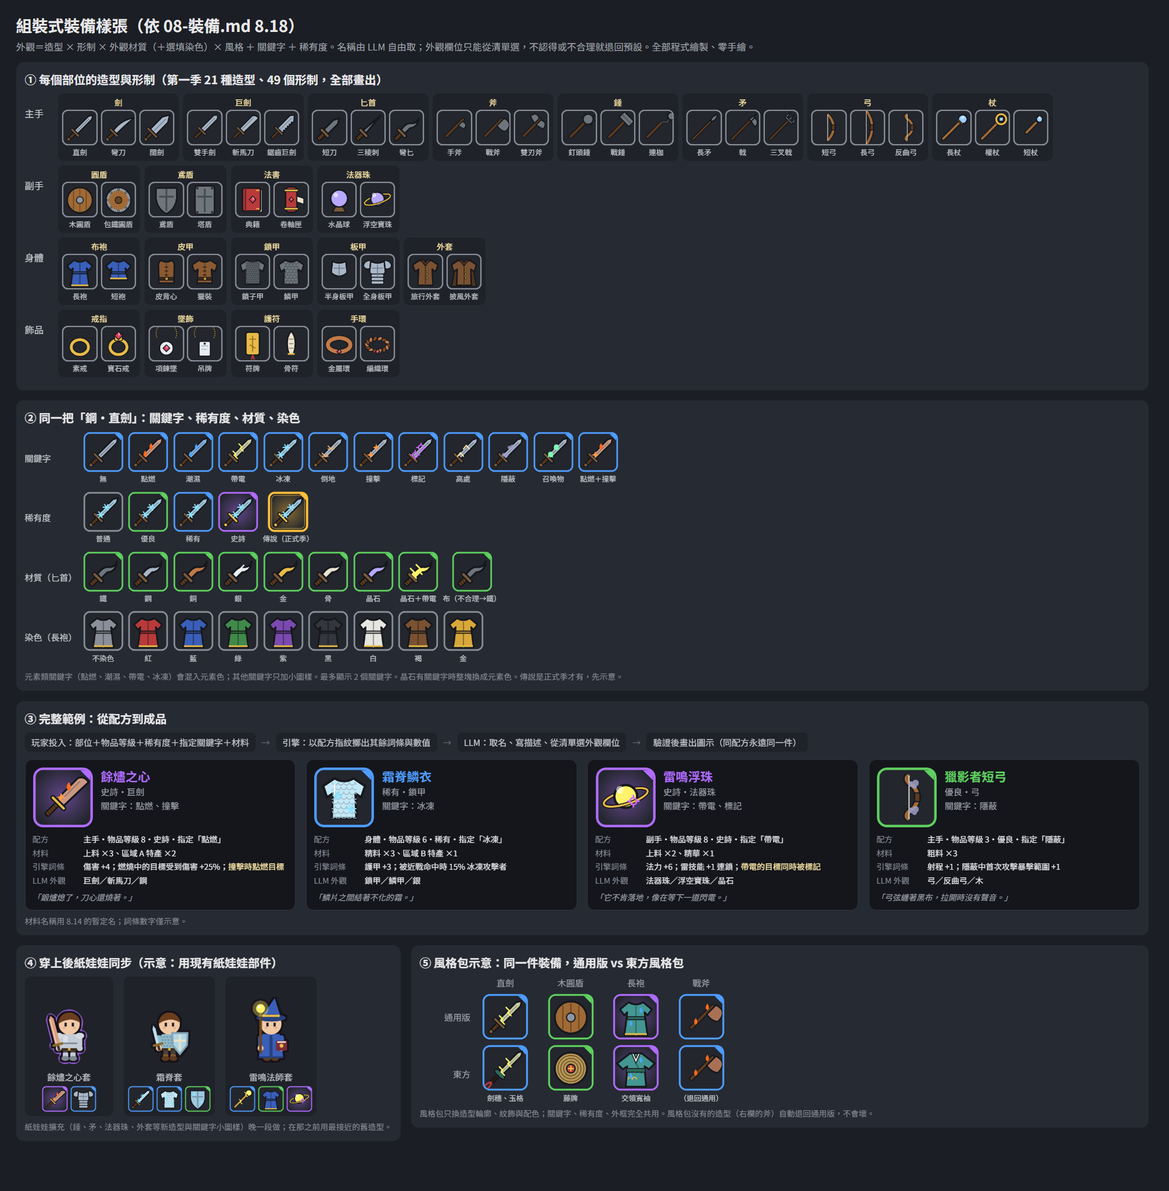
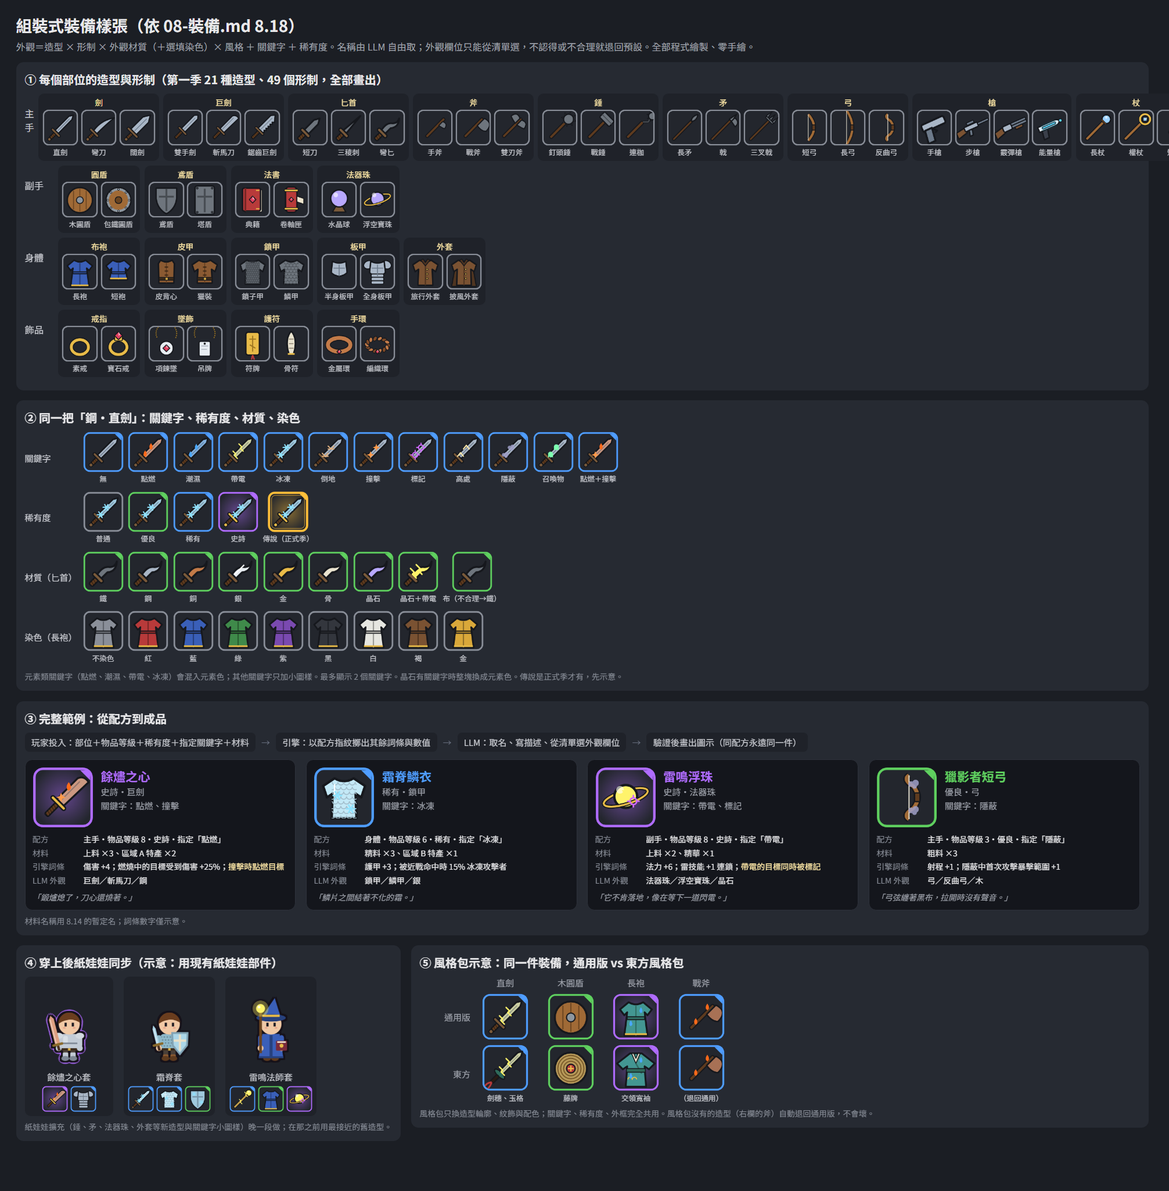
docs(art): add style pack comparison and guns to equipment samples

Changed region(s): [[0.0308, 0.0624, 1.0, 0.1561]]

diff --git a/docs/art/sample/gearArt.js b/docs/art/sample/gearArt.js
@@ -47,6 +47,7 @@ window.GearArt = (() => {
     hammer: { slot: "main", zh: "錘", forms: { mace: "釘頭錘", warhammer: "戰錘", flail: "連枷" }, mats: [...METAL], def: "iron" },
     spear: { slot: "main", zh: "矛", forms: { spear: "長矛", halberd: "戟", trident: "三叉戟" }, mats: [...METAL, "wood"], def: "iron" },
     bow: { slot: "main", zh: "弓", forms: { short: "短弓", long: "長弓", recurve: "反曲弓" }, mats: ["wood", ...METAL], def: "wood" },
+    gun: { slot: "main", zh: "槍", forms: { pistol: "手槍", rifle: "步槍", shotgun: "霰彈槍", energy: "能量槍" }, mats: [...METAL, "wood"], def: "steel" },
     staff: { slot: "main", zh: "杖", forms: { long: "長杖", scepter: "權杖", wand: "短杖" }, mats: ["wood", ...METAL, "bone", "crystal"], def: "wood" },
     round_shield: { slot: "off", zh: "圓盾", forms: { wood: "木圓盾", banded: "包鐵圓盾" }, mats: ["wood", ...METAL], def: "wood" },
     kite_shield: { slot: "off", zh: "鳶盾", forms: { kite: "鳶盾", tower: "塔盾" }, mats: [...METAL], def: "iron" },
@@ -72,7 +73,7 @@ window.GearArt = (() => {
     const dye = (material === "cloth" || material === "leather") && DYE[it.dye] ? it.dye : null;
     const keywords = (it.keywords ?? []).filter((k) => KEYWORD[k]).slice(0, 2);
     const rarity = RARITY[it.rarity] ? it.rarity : "common";
-    return { kind, form, material, dye, keywords, rarity, style: it.style === "eastern" ? "eastern" : "common" };
+    return { kind, form, material, dye, keywords, rarity, style: STYLES[it.style] ? it.style : "common" };
   }
 
   function mix(a, b, t) {
@@ -382,6 +383,171 @@ window.GearArt = (() => {
     },
   };
 
+  // ---- 槍（遠程主手；槍口朝右上）----
+  D.gun = (ctx, r, P) => {
+    ctx.save(); ctx.translate(32, 34); ctx.rotate(-0.42);
+    const wood = "#7a5232";
+    if (r.form === "pistol") {
+      ctx.scale(1.45, 1.45);
+      shape(ctx, P.a, () => ctx.roundRect(-12, -9, 26, 8, 2));
+      shape(ctx, P.d, () => { ctx.moveTo(-10, -2); ctx.lineTo(-2, -2); ctx.lineTo(-4, 12); ctx.lineTo(-12, 12); ctx.closePath(); });
+      line(ctx, INK, 1.8, [[-2, -1], [2, 3], [-1, 4]]);
+      shine(ctx, P, [[-9, -7], [10, -7]]);
+      var muzzle = [20, -7];
+    } else if (r.form === "rifle") {
+      shape(ctx, wood, () => { ctx.moveTo(-26, -4); ctx.lineTo(-12, -6); ctx.lineTo(-10, 2); ctx.lineTo(-26, 6); ctx.closePath(); });
+      shape(ctx, P.a, () => ctx.roundRect(-12, -7, 22, 7, 1.5));
+      shape(ctx, P.d, () => ctx.roundRect(10, -5.5, 18, 3.5, 1), 1.5);
+      shape(ctx, P.d, () => ctx.roundRect(-6, -12, 12, 4, 1.5), 1.5); // 瞄準鏡
+      shape(ctx, P.d, () => { ctx.moveTo(-6, 0); ctx.lineTo(-1, 0); ctx.lineTo(-3, 9); ctx.lineTo(-8, 9); ctx.closePath(); });
+      muzzle = [28, -4];
+    } else if (r.form === "shotgun") {
+      shape(ctx, wood, () => { ctx.moveTo(-26, -4); ctx.lineTo(-12, -7); ctx.lineTo(-10, 2); ctx.lineTo(-26, 7); ctx.closePath(); });
+      shape(ctx, P.a, () => ctx.roundRect(-12, -8, 14, 9, 2));
+      shape(ctx, P.d, () => ctx.roundRect(2, -8, 24, 4, 1), 1.5);
+      shape(ctx, P.d, () => ctx.roundRect(2, -4, 24, 4, 1), 1.5);
+      shape(ctx, wood, () => ctx.roundRect(6, 0, 12, 4, 1.5), 1.5); // 泵動護木
+      muzzle = [26, -4];
+    } else {
+      const glow = r.keywords.length ? P.accent : "#5ad8ff";
+      shape(ctx, "#e8edf2", () => { ctx.moveTo(-16, -9); ctx.lineTo(14, -9); ctx.quadraticCurveTo(22, -6, 14, -1); ctx.lineTo(-16, -1); ctx.closePath(); });
+      shape(ctx, "#3a3f4a", () => { ctx.moveTo(-12, -1); ctx.lineTo(-3, -1); ctx.lineTo(-6, 12); ctx.lineTo(-14, 12); ctx.closePath(); });
+      ctx.save(); ctx.shadowColor = glow; ctx.shadowBlur = 6; shape(ctx, glow, () => ctx.roundRect(-10, -6.5, 22, 3, 1.5), 1); ctx.restore();
+      shape(ctx, glow, () => ctx.arc(20, -5, 2.5, 0, TAU), 1.2);
+      muzzle = [20, -5];
+    }
+    ctx.restore();
+    const a = -0.42, mx = 32 + Math.cos(a) * muzzle[0] - Math.sin(a) * muzzle[1], my = 34 + Math.sin(a) * muzzle[0] + Math.cos(a) * muzzle[1];
+    return [[mx + 2, my - 4], [24, 44]];
+  };
+
+  // ---- 風格包：魔導科技（黃銅＋晶能＋符文）----
+  const BRASS = "#c8963c", BRASS_D = "#7a5a22";
+  const MAGITECH = {
+    sword: (ctx, r, P) => {
+      const glow = r.keywords.length ? P.accent : "#8fe3ff";
+      diag(ctx, () => {
+        shape(ctx, P.a, () => { ctx.moveTo(-4, 8); ctx.lineTo(-4, -22); ctx.lineTo(0, -28); ctx.lineTo(4, -22); ctx.lineTo(4, 8); ctx.closePath(); });
+        ctx.save(); ctx.shadowColor = glow; ctx.shadowBlur = 5; line(ctx, glow, 1.6, [[0, 6], [0, -22]]); ctx.restore();
+        for (const y of [-4, -12]) line(ctx, glow, 1.2, [[-3, y], [-1, y - 2], [1, y], [3, y - 2]]);
+        shape(ctx, BRASS, () => ctx.arc(0, 10, 5.5, 0, TAU), 1.5); // 齒輪護手
+        for (let i = 0; i < 8; i++) { const t = (i / 8) * TAU; shape(ctx, BRASS, () => ctx.rect(Math.cos(t) * 6 - 1.2, 10 + Math.sin(t) * 6 - 1.2, 2.4, 2.4), 0.8); }
+        shape(ctx, glow, () => ctx.arc(0, 10, 2, 0, TAU), 1);
+        shape(ctx, BRASS_D, () => ctx.roundRect(-2.2, 15, 4.4, 9, 1.5), 1.5);
+      });
+      return [[36, 26], [28, 36]];
+    },
+    round_shield: (ctx, r, P) => {
+      const glow = r.keywords.length ? P.accent : "#8fe3ff";
+      shape(ctx, BRASS, () => ctx.arc(32, 33, 22, 0, TAU), 2.5);
+      for (let i = 0; i < 12; i++) { const t = (i / 12) * TAU; shape(ctx, BRASS_D, () => ctx.arc(32 + Math.cos(t) * 18, 33 + Math.sin(t) * 18, 1.4, 0, TAU), 0.6); }
+      ctx.strokeStyle = BRASS_D; ctx.lineWidth = 2; ctx.beginPath(); ctx.arc(32, 33, 13, 0, TAU); ctx.stroke();
+      ctx.save(); ctx.shadowColor = glow; ctx.shadowBlur = 8; gem(ctx, 32, 33, 8, glow); ctx.restore();
+      return [[22, 26], [42, 42]];
+    },
+    robe: (ctx, r, P) => {
+      const glow = r.keywords.length ? P.accent : "#8fe3ff";
+      D.robe(ctx, r, P);
+      shape(ctx, BRASS, () => ctx.roundRect(19, 31, 26, 6, 1.5), 1.2);
+      ctx.save(); ctx.shadowColor = glow; ctx.shadowBlur = 5; shape(ctx, glow, () => ctx.arc(32, 34, 2.5, 0, TAU), 1); line(ctx, glow, 1.4, [[24, 40], [24, 54]]); line(ctx, glow, 1.4, [[40, 40], [40, 54]]); ctx.restore();
+      shape(ctx, BRASS, () => ctx.ellipse(16, 22, 5, 4, -0.4, 0, TAU), 1.2); shape(ctx, BRASS, () => ctx.ellipse(48, 22, 5, 4, 0.4, 0, TAU), 1.2);
+      return [[25, 46], [39, 22]];
+    },
+    axe: (ctx, r, P) => {
+      const glow = r.keywords.length ? P.accent : "#8fe3ff";
+      diag(ctx, () => {
+        shape(ctx, BRASS_D, () => ctx.roundRect(-2.5, -24, 5, 46, 2), 1.5);
+        shape(ctx, P.a, () => { ctx.moveTo(2, -26); ctx.quadraticCurveTo(20, -32, 20, -12); ctx.quadraticCurveTo(14, -6, 2, -8); ctx.closePath(); });
+        ctx.save(); ctx.shadowColor = glow; ctx.shadowBlur = 5; ctx.beginPath(); ctx.moveTo(5, -24); ctx.quadraticCurveTo(18, -27, 18, -12); ctx.strokeStyle = glow; ctx.lineWidth = 1.6; ctx.stroke(); ctx.restore();
+        shape(ctx, BRASS, () => ctx.arc(0, -17, 4, 0, TAU), 1.2); shape(ctx, glow, () => ctx.arc(0, -17, 1.6, 0, TAU), 0.6);
+      });
+      return [[40, 20], [24, 40]];
+    },
+  };
+  // ---- 風格包：科技（深色金屬＋電路＋發光）----
+  const DARK = "#2a2f38", DARK2 = "#454c58";
+  const SCIFI = {
+    sword: (ctx, r, P) => {
+      const glow = r.keywords.length ? P.accent : "#5ad8ff";
+      diag(ctx, () => {
+        ctx.save(); ctx.shadowColor = glow; ctx.shadowBlur = 10;
+        shape(ctx, glow, () => { ctx.moveTo(-3, 6); ctx.lineTo(-3, -24); ctx.quadraticCurveTo(0, -30, 3, -24); ctx.lineTo(3, 6); ctx.closePath(); }, 1);
+        ctx.restore();
+        shape(ctx, "rgba(255,255,255,0.85)", () => ctx.roundRect(-1, -22, 2, 27, 1), 0);
+        shape(ctx, DARK2, () => ctx.roundRect(-5, 6, 10, 4, 1), 1.5);
+        shape(ctx, DARK, () => ctx.roundRect(-3, 10, 6, 14, 1.5), 1.5);
+        for (const y of [13, 17, 21]) line(ctx, glow, 1, [[-2, y], [2, y]]);
+      });
+      return [[36, 26], [28, 36]];
+    },
+    round_shield: (ctx, r, P) => {
+      const glow = r.keywords.length ? P.accent : "#5ad8ff";
+      ctx.save(); ctx.globalAlpha = 0.35; shape(ctx, glow, () => { for (let i = 0; i < 6; i++) { const t = (i / 6) * TAU - Math.PI / 2; ctx.lineTo(32 + Math.cos(t) * 23, 33 + Math.sin(t) * 23); } ctx.closePath(); }, 0); ctx.restore();
+      ctx.strokeStyle = glow; ctx.lineWidth = 1; ctx.save(); ctx.shadowColor = glow; ctx.shadowBlur = 6;
+      for (const [hx, hy] of [[32, 33], [32, 21], [32, 45], [21.6, 27], [42.4, 27], [21.6, 39], [42.4, 39]]) { ctx.beginPath(); for (let i = 0; i < 6; i++) { const t = (i / 6) * TAU; ctx.lineTo(hx + Math.cos(t) * 6.5, hy + Math.sin(t) * 6.5); } ctx.closePath(); ctx.stroke(); }
+      ctx.restore();
+      shape(ctx, DARK, () => ctx.roundRect(26, 50, 12, 8, 2), 1.5); shape(ctx, glow, () => ctx.arc(32, 54, 1.8, 0, TAU), 0.6);
+      return [[22, 26], [42, 42]];
+    },
+    robe: (ctx, r, P) => {
+      const glow = r.keywords.length ? P.accent : "#5ad8ff";
+      shape(ctx, DARK2, () => { ctx.moveTo(22, 12); ctx.quadraticCurveTo(32, 16, 42, 12); ctx.lineTo(54, 22); ctx.lineTo(50, 34); ctx.lineTo(45, 30); ctx.lineTo(45, 56); ctx.lineTo(19, 56); ctx.lineTo(19, 30); ctx.lineTo(14, 34); ctx.lineTo(10, 22); ctx.closePath(); }, 2.5);
+      shape(ctx, DARK, () => ctx.roundRect(23, 18, 18, 18, 3), 1.5);
+      ctx.save(); ctx.shadowColor = glow; ctx.shadowBlur = 6;
+      line(ctx, glow, 1.6, [[32, 22], [32, 30], [36, 34], [36, 52]]); line(ctx, glow, 1.6, [[26, 40], [26, 52]]); shape(ctx, glow, () => ctx.arc(32, 22, 2.2, 0, TAU), 0.8);
+      ctx.restore();
+      return [[25, 46], [40, 22]];
+    },
+    axe: (ctx, r, P) => {
+      const glow = r.keywords.length ? P.accent : "#5ad8ff";
+      diag(ctx, () => {
+        shape(ctx, DARK, () => ctx.roundRect(-2.5, -24, 5, 46, 2), 1.5);
+        for (const y of [4, 10, 16]) line(ctx, glow, 1, [[-2, y], [2, y]]);
+        ctx.save(); ctx.shadowColor = glow; ctx.shadowBlur = 10; shape(ctx, glow, () => { ctx.moveTo(3, -26); ctx.quadraticCurveTo(20, -30, 19, -12); ctx.quadraticCurveTo(13, -8, 3, -9); ctx.closePath(); }, 1); ctx.restore();
+        shape(ctx, DARK2, () => ctx.roundRect(-4, -27, 9, 20, 2), 1.5);
+      });
+      return [[40, 20], [24, 40]];
+    },
+  };
+  // ---- 風格包：現代（工業製品、橡膠、塗裝）----
+  const MODERN = {
+    sword: (ctx, r, P) => { // 開山刀
+      diag(ctx, () => {
+        shape(ctx, P.a, () => { ctx.moveTo(-3, 8); ctx.lineTo(-3, -18); ctx.quadraticCurveTo(-3, -28, 5, -27); ctx.lineTo(5, 8); ctx.closePath(); });
+        line(ctx, "rgba(255,255,255,0.7)", 1.2, [[-1.5, 6], [-1.5, -18]]);
+        shape(ctx, "#2a2d33", () => ctx.roundRect(-3.5, 8, 9, 15, 3), 1.5);
+        for (const y of [11, 15, 19]) shape(ctx, "#5a5f68", () => ctx.arc(1, y, 1, 0, TAU), 0);
+      });
+      return [[36, 26], [28, 36]];
+    },
+    round_shield: (ctx, r, P) => { // 鎮暴盾
+      ctx.save(); ctx.globalAlpha = 0.45; shape(ctx, "#b8d4e8", () => ctx.roundRect(16, 8, 32, 50, 5), 0); ctx.restore();
+      ctx.beginPath(); ctx.roundRect(16, 8, 32, 50, 5); ctx.lineWidth = 2.5; ctx.strokeStyle = INK; ctx.stroke(); ctx.lineWidth = 2; ctx.strokeStyle = "#2a2d33"; ctx.stroke();
+      line(ctx, "rgba(255,255,255,0.8)", 2, [[21, 14], [21, 30]]);
+      shape(ctx, "#2a2d33", () => ctx.roundRect(19, 40, 26, 6, 1), 1.2);
+      return [[24, 24], [40, 50]];
+    },
+    robe: (ctx, r, P) => { // 連帽外套
+      shape(ctx, P.a, () => { ctx.moveTo(20, 14); ctx.quadraticCurveTo(32, 4, 44, 14); ctx.lineTo(54, 22); ctx.lineTo(51, 38); ctx.lineTo(45, 36); ctx.lineTo(45, 54); ctx.lineTo(19, 54); ctx.lineTo(19, 36); ctx.lineTo(13, 38); ctx.lineTo(10, 22); ctx.closePath(); }, 2.5);
+      shape(ctx, P.d, () => { ctx.moveTo(24, 14); ctx.quadraticCurveTo(32, 8, 40, 14); ctx.quadraticCurveTo(32, 20, 24, 14); }, 1.5); // 帽口
+      line(ctx, "#d0d4da", 1.6, [[32, 18], [32, 54]]);
+      shape(ctx, P.d, () => ctx.roundRect(22, 40, 20, 8, 2), 1.2); // 口袋
+      line(ctx, "#e6e6e0", 1.2, [[29, 18], [28, 26]]); line(ctx, "#e6e6e0", 1.2, [[35, 18], [36, 26]]);
+      return [[25, 30], [39, 30]];
+    },
+    axe: (ctx, r, P) => { // 消防斧
+      diag(ctx, () => {
+        shape(ctx, "#c03030", () => ctx.roundRect(-2.5, -24, 5, 46, 2), 1.5);
+        shape(ctx, "#2a2d33", () => ctx.roundRect(-3, 12, 6, 10, 2), 1.5);
+        shape(ctx, "#c03030", () => { ctx.moveTo(2, -24); ctx.lineTo(16, -26); ctx.lineTo(17, -12); ctx.lineTo(2, -12); ctx.closePath(); });
+        shape(ctx, "#c3ccd6", () => { ctx.moveTo(13, -26); ctx.lineTo(17, -26.5); ctx.lineTo(18, -11.5); ctx.lineTo(14, -12); ctx.closePath(); }, 1);
+        shape(ctx, "#454c58", () => { ctx.moveTo(-2, -23); ctx.lineTo(-11, -16); ctx.lineTo(-2, -15); ctx.closePath(); }, 1.5); // 尖鎬
+      });
+      return [[40, 20], [24, 40]];
+    },
+  };
+  const STYLES = { common: {}, eastern: EASTERN, magitech: MAGITECH, scifi: SCIFI, modern: MODERN };
+
   // ---- 外框（稀有度）----
   function frame(ctx, rarity) {
     const [c] = RARITY[rarity];
@@ -396,9 +562,9 @@ window.GearArt = (() => {
     const r = resolve(item);
     const P = palette(r);
     frame(ctx, r.rarity);
-    const fn = (r.style === "eastern" && EASTERN[r.kind]) || D[r.kind];
+    const fn = STYLES[r.style][r.kind] || D[r.kind];
     // 細長的造型放大一點，讓圖示填滿外框
-    const k = { sword: 1.15, dagger: 1.5, axe: 1.0, hammer: 1.1, spear: 1.05, bow: 1.15, staff: 1.1 }[r.kind] ?? 1;
+    const k = { sword: 1.15, dagger: 1.5, axe: 1.0, hammer: 1.1, spear: 1.05, bow: 1.15, staff: 1.1, gun: 1.15 }[r.kind] ?? 1;
     ctx.save(); ctx.beginPath(); ctx.roundRect(3, 3, 58, 58, 8); ctx.clip(); ctx.translate(32, 33); ctx.scale(k, k); ctx.translate(-32, -33);
     const spots = fn(ctx, r, P);
     r.keywords.forEach((kw, i) => motif(ctx, kw, ...spots[i % spots.length]));

diff --git a/docs/art/sample/gear3.html b/docs/art/sample/gear3.html
@@ -1,0 +1,104 @@
+<!doctype html>
+<html lang="zh-Hant">
+<head>
+<meta charset="utf-8">
+<title>風格包與槍</title>
+<style>
+  body { margin: 0; padding: 18px 22px; background: #1b1e24; color: #e8e8ea; font-family: "Noto Sans TC", "Microsoft JhengHei", sans-serif; width: 1500px; }
+  h1 { font-size: 22px; margin: 0 0 4px; }
+  h2 { font-size: 16px; margin: 0 0 8px; }
+  .sub { color: #a0a4ad; font-size: 13px; margin-bottom: 12px; }
+  .note { color: #8a8f99; font-size: 11px; margin-top: 6px; line-height: 1.5; }
+  .box { background: #262a32; border-radius: 10px; padding: 12px; margin-bottom: 14px; }
+  .row { display: flex; gap: 14px; align-items: flex-start; }
+  .grid { display: grid; gap: 6px 8px; align-items: center; }
+  .h { font-size: 12px; color: #a0a4ad; text-align: center; }
+  .rh { font-size: 13px; color: #e8e8ea; text-align: right; line-height: 1.3; }
+  .rh small { display: block; color: #8a8f99; font-size: 10px; }
+  .ic { text-align: center; font-size: 10px; color: #c8cad0; }
+  .ic canvas { display: block; margin: 0 auto 1px; }
+  .strip { display: flex; gap: 6px; align-items: flex-end; margin: 4px 0 10px; }
+  .strip .lab { width: 64px; font-size: 12px; color: #c8cad0; align-self: center; }
+  .doll { text-align: center; font-size: 12px; color: #c8cad0; background: #1f2229; border-radius: 8px; padding: 6px; }
+  .doll .gs { display: flex; gap: 3px; justify-content: center; margin-top: 4px; }
+</style>
+</head>
+<body>
+<h1>風格包比較與槍（組裝式裝備樣張・續）</h1>
+<div class="sub">同樣的資料欄位（造型、形制、材質、關鍵字、稀有度），只換 <b>style</b>。關鍵字、稀有度、外框所有風格共用；風格包沒有的造型自動退回通用版。</div>
+
+<div class="box"><h2>① 同四件裝備 × 五種風格</h2><div class="grid" id="styles" style="grid-template-columns: 110px repeat(4, 84px) 24px repeat(4, 84px);"></div>
+  <div class="note">左半：無關鍵字的普通款；右半：同一件加上關鍵字與較高稀有度（魔導與科技的發光線會跟著換成關鍵字的顏色）。<br>魔導科技＝黃銅齒輪＋晶能＋符文，和奇幻、東方比較搭；科技＝深色金屬＋電路＋能量刃，最「未來」；現代＝工業製品（開山刀、鎮暴盾、連帽外套、消防斧）。</div>
+</div>
+
+<div class="row">
+  <div class="box"><h2>② 槍：遠程主手造型，4 種形制</h2><div id="guns"></div>
+    <div class="note">槍的彈藥、射程、和弓的差別屬於玩法，另由玩法 PM 決定；這裡只示範外觀。</div></div>
+  <div class="box"><h2>③ 紙娃娃持槍</h2><div class="row" id="dolls"></div>
+    <div class="note">示意：用現有的身體部件；科技、現代風的服裝部件之後隨風格包補。</div></div>
+</div>
+
+<script src="paperdoll.js"></script>
+<script src="gearArt.js"></script>
+<script>
+const G = GearArt;
+const ic = (it, px = 64, label) => { const d = document.createElement("div"); d.className = "ic"; d.appendChild(G.icon(it, px)); if (label != null) d.insertAdjacentHTML("beforeend", label); return d; };
+
+// ① 風格
+const ITEMS = [
+  ["劍", { kind: "sword", form: "straight", material: "steel" }, { keywords: ["shock"], rarity: "epic" }],
+  ["圓盾", { kind: "round_shield", form: "wood", material: "wood" }, { keywords: ["freeze"], rarity: "rare" }],
+  ["布袍", { kind: "robe", form: "long", material: "cloth", dye: "blue" }, { keywords: ["ignite"], rarity: "epic" }],
+  ["斧", { kind: "axe", form: "battle", material: "iron" }, { keywords: ["ignite"], rarity: "rare" }],
+];
+const STY = [
+  ["common", "通用版", "奇幻基準"], ["eastern", "東方", "劍穗、藤牌、交領"], ["magitech", "魔導科技", "黃銅＋晶能"], ["scifi", "科技", "電路＋能量"], ["modern", "現代", "工業製品"],
+];
+const LABEL = {
+  eastern: { sword: "劍", round_shield: "藤牌", robe: "交領寬袖", axe: "（退回通用）" },
+  magitech: { sword: "符文劍", round_shield: "齒輪盾", robe: "晶能法袍", axe: "晶刃斧" },
+  scifi: { sword: "能量刃", round_shield: "力場盾", robe: "戰術服", axe: "電漿斧" },
+  modern: { sword: "開山刀", round_shield: "鎮暴盾", robe: "連帽外套", axe: "消防斧" },
+};
+const st = document.getElementById("styles");
+st.insertAdjacentHTML("beforeend", `<div></div>${ITEMS.map(([n]) => `<div class="h">${n}</div>`).join("")}<div></div>${ITEMS.map(([n, , x]) => `<div class="h">${n}＋${G.KEYWORD[x.keywords[0]].zh}</div>`).join("")}`);
+for (const [s, zh, note] of STY) {
+  st.insertAdjacentHTML("beforeend", `<div class="rh">${zh}<small>${note}</small></div>`);
+  for (const [, it] of ITEMS) st.appendChild(ic({ ...it, style: s, rarity: "common" }, 64, LABEL[s]?.[it.kind] ?? ""));
+  st.insertAdjacentHTML("beforeend", `<div></div>`);
+  for (const [, it, x] of ITEMS) st.appendChild(ic({ ...it, ...x, style: s }, 64, ""));
+}
+
+// ② 槍
+const guns = document.getElementById("guns");
+function strip(label, items) {
+  const s = document.createElement("div"); s.className = "strip"; s.insertAdjacentHTML("beforeend", `<div class="lab">${label}</div>`);
+  for (const [it, l] of items) s.appendChild(ic(it, 60, l)); guns.appendChild(s);
+}
+const FORMS = G.KINDS.gun.forms;
+strip("形制", Object.entries(FORMS).map(([f, z]) => [{ kind: "gun", form: f, material: "steel", rarity: "common" }, z]));
+strip("材質", [["iron", "鐵"], ["steel", "鋼"], ["copper", "銅"], ["silver", "銀"], ["gold", "金"]].map(([m, z]) => [{ kind: "gun", form: "pistol", material: m, rarity: "uncommon" }, z]));
+strip("關鍵字", [["ignite"], ["wet"], ["shock"], ["freeze"], ["impact"], ["mark"], ["hidden"]].map(([k]) => [{ kind: "gun", form: "rifle", material: "steel", keywords: [k], rarity: "rare" }, G.KEYWORD[k].zh]));
+strip("稀有度", Object.entries(G.RARITY).map(([r, v]) => [{ kind: "gun", form: "energy", material: "steel", keywords: r === "common" ? [] : ["shock"], rarity: r }, v[1] + (r === "legendary" ? "（正式季）" : "")]));
+strip("霰彈槍", [[{ kind: "gun", form: "shotgun", material: "iron", keywords: ["impact"], rarity: "uncommon" }, "撞擊"], [{ kind: "gun", form: "shotgun", material: "steel", keywords: ["ignite", "prone"], rarity: "epic" }, "點燃＋倒地"], [{ kind: "gun", form: "energy", material: "steel", keywords: ["freeze"], rarity: "epic" }, "能量槍＋冰凍"]]);
+
+// ③ 紙娃娃持槍
+const D = window.PaperDoll;
+const look = D.TEMPLATES.hero_archer.look;
+const OUT = [
+  ["手槍＋皮甲", { main_hand: { kind: "gun", form: "pistol", material: "steel" }, body: { kind: "leather", material: "leather", color: "#3a3a42" }, feet: { kind: "boots", material: "leather" } }, undefined, [{ kind: "gun", form: "pistol", material: "steel", rarity: "uncommon" }]],
+  ["步槍＋鎖甲（帶電）", { main_hand: { kind: "gun", form: "rifle", material: "steel", element: "lightning" }, body: { kind: "mail", material: "iron" }, head: { kind: "helmet", material: "steel" }, feet: { kind: "boots", material: "leather" } }, undefined, [{ kind: "gun", form: "rifle", material: "steel", keywords: ["shock"], rarity: "rare" }]],
+  ["能量槍（冰凍、史詩）", { main_hand: { kind: "gun", form: "energy", material: "steel", element: "ice" }, body: { kind: "plate", material: "steel" }, hands: { kind: "gauntlets", material: "steel" }, feet: { kind: "greaves", material: "steel" } }, "epic", [{ kind: "gun", form: "energy", material: "steel", keywords: ["freeze"], rarity: "epic" }]],
+];
+const dollsEl = document.getElementById("dolls");
+for (const [n, gear, rarity, icons] of OUT) {
+  const d = document.createElement("div"); d.className = "doll";
+  const cv = document.createElement("canvas"); cv.width = 240; cv.height = 260; cv.style.width = "120px"; cv.style.height = "130px";
+  const ctx = cv.getContext("2d"); ctx.scale(2, 2); D.stamp(ctx, { look, gear, rarity }, "south", 60, 118, 1.85);
+  d.appendChild(cv); d.insertAdjacentHTML("beforeend", `<div>${n}</div>`);
+  const gs = document.createElement("div"); gs.className = "gs"; for (const it of icons) gs.appendChild(G.icon(it, 40)); d.appendChild(gs);
+  dollsEl.appendChild(d);
+}
+</script>
+</body>
+</html>

diff --git a/docs/art/sample/paperdoll.js b/docs/art/sample/paperdoll.js
@@ -323,6 +323,18 @@ window.PaperDoll = (() => {
         fill(ctx, "rgba(255,255,255,0.8)", () => { ctx.beginPath(); ctx.arc(-1.2, -33.2, 1.1, 0, TAU); });
         break;
       }
+      case "gun": {
+        // 槍（樣張）：槍口朝前下方；形制決定長度與外型
+        const L = { pistol: 7, rifle: 17, shotgun: 15, energy: 12 }[it.form] ?? 7;
+        ctx.rotate(front ? 0.35 : -0.35);
+        const s = front ? -1 : 1;
+        fill(ctx, "#3a2a1c", () => rr(ctx, -1.2, -1, 2.4, 5, 0.8)); // 握把
+        if (it.form === "rifle" || it.form === "shotgun") fill(ctx, it.form === "shotgun" ? "#7a5232" : d, () => rr(ctx, s > 0 ? -6 : 1, -3, 5, 3, 1)); // 槍托
+        fill(ctx, it.form === "energy" ? "#e8edf2" : c, () => rr(ctx, s > 0 ? -1 : -L, -3.2, L + 1, it.form === "shotgun" ? 3.2 : 2.6, 1));
+        if (it.form === "energy") fill(ctx, it.element ? ELEMENT_TINT[it.element] : "#5ad8ff", () => rr(ctx, s > 0 ? 1 : -L + 1, -2.6, L - 3, 1.2, 0.6));
+        else if (it.element) fill(ctx, ELEMENT_TINT[it.element], () => { ctx.beginPath(); ctx.arc(s * (L - 0.5), -2, 1.3, 0, TAU); });
+        break;
+      }
       case "bow":
         ctx.strokeStyle = c;
         ctx.lineWidth = 2.2;

diff --git a/docs/art/組裝式裝備.md b/docs/art/組裝式裝備.md
@@ -119,3 +119,11 @@
 ## 完整樣張（2026-10-22）
 
 依 8.18 定案畫的完整樣張：`docs/art/sample/gear2.html`（畫法在 `gearArt.js`）→ `docs/art/gear-sample.png`。內容：① 21 種造型、49 個形制全部畫出；② 同一把劍在 10 個關鍵字、5 種稀有度下的變化，加上 7 種材質與 8 種染色；③ 4 件從配方到成品的完整範例；④ 紙娃娃 3 套對照；⑤ 東方風格包示意，風格包沒有的造型會退回通用版。`gearArt.js` 的 `resolve()` 示範驗證與預設（不合理的材質退回預設），實作時可以直接當規格參考。
+
+## 風格包比較與槍（2026-10-22）
+
+使用者原話：「科技風 現代風 呢  還有私心也會想要有槍」。樣張 `docs/art/sample/gear3.html` → `docs/art/gear-styles-guns.png`。
+
+- **四個風格包示意**（各覆寫劍、圓盾、布袍、斧）：東方（劍穗、藤牌、交領；斧退回通用）、魔導科技（黃銅齒輪＋晶能＋符文）、科技（深色金屬＋電路＋能量刃、力場盾）、現代（開山刀、鎮暴盾、連帽外套、消防斧）。發光線跟著關鍵字換色，關鍵字、稀有度、外框所有風格共用。
+- 美術看法：魔導科技和奇幻、東方放在同一個世界最協調；真正的科技與現代，和中世紀紙娃娃落差大，要同時補服裝部件才不突兀（每個風格約 0.5～1 段，見前文）。
+- **槍**：新增主手造型 `gun`，形制有手槍、步槍、霰彈槍、能量槍；可用材質是金屬或木，預設鋼。關鍵字與稀有度的規則和其他武器相同。紙娃娃持槍已在 `paperdoll.js` 加上 `gun` 畫法（樣張）。槍的彈藥、射程等規則屬於玩法，不在這裡定。
